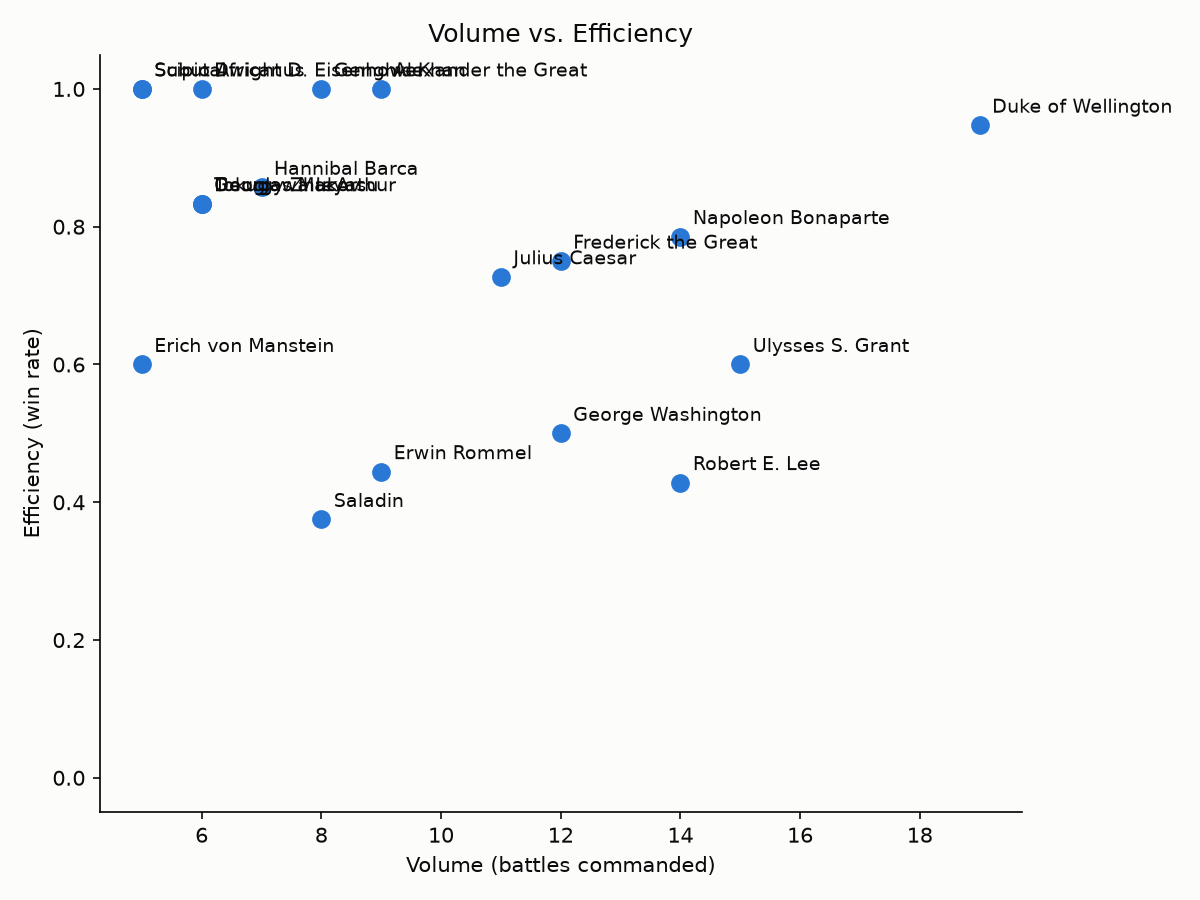
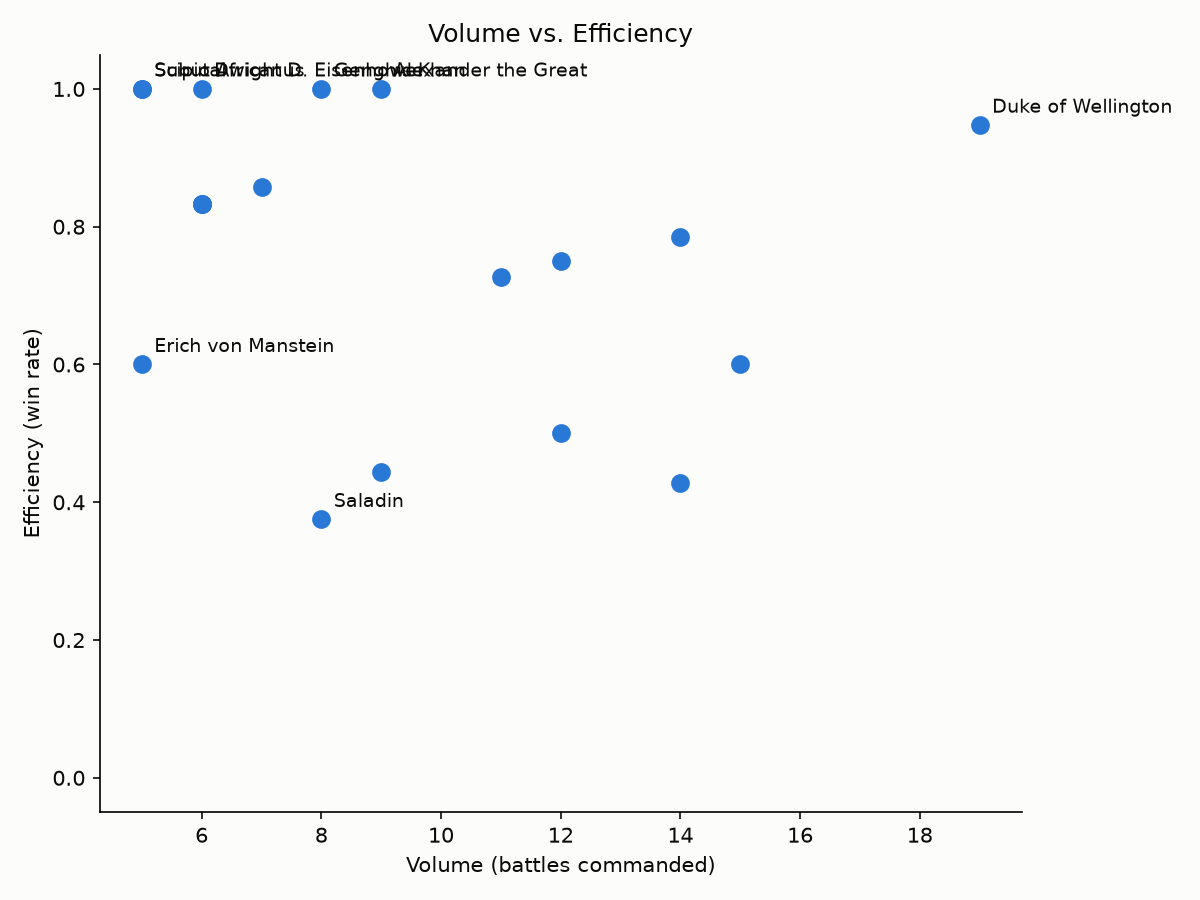
data: regenerate gold-set viz output
The committed composite/category/tactical-strategic CSVs predated B1's
decisive_win_rate redefinition and were stale; also picks up the new
extreme-only point labeling and top-25 table cap.

diff --git a/output/viz/ranking_tables.html b/output/viz/ranking_tables.html
@@ -12,4 +12,4 @@ table.ranking-table th:nth-child(2), table.ranking-table td:nth-child(2) { text-
 table.ranking-table th:nth-child(3):not(:last-child), table.ranking-table td:nth-child(3):not(:last-child) { text-align: left; }
 table.ranking-table thead th { border-bottom: 2px solid #2a78d6; color: #52514e;
   font-weight: 600; }
-</style></head><body><h1>War Analyzer — Ranking Tables</h1><table class="ranking-table"><caption>Composite Power Ranking</caption><thead><tr><th>Rank</th><th>General</th><th>Era</th><th>Composite Score</th><th>OAR</th><th>WAR-Residual (90% CI)</th><th>Decisive Win Rate</th><th>Longevity-Adj. Value</th></tr></thead><tbody><tr><td>1</td><td>Dwight D. Eisenhower</td><td>WWII</td><td>+1.287</td><td>1873</td><td>+0.172 (+0.170 to +0.173)</td><td>100.0%</td><td>1.500</td></tr><tr><td>2</td><td>Alexander the Great</td><td>Ancient</td><td>+0.897</td><td>1878</td><td>+0.175 (+0.170 to +0.180)</td><td>100.0%</td><td>1.000</td></tr><tr><td>3</td><td>Frederick the Great</td><td>Early Modern</td><td>+0.850</td><td>1676</td><td>+0.085 (+0.082 to +0.085)</td><td>100.0%</td><td>0.475</td></tr><tr><td>4</td><td>Ulysses S. Grant</td><td>Industrial</td><td>+0.850</td><td>1676</td><td>-0.143 (-0.148 to -0.137)</td><td>100.0%</td><td>2.100</td></tr><tr><td>5</td><td>Subutai</td><td>Medieval</td><td>+0.774</td><td>1783</td><td>+0.222 (+0.189 to +0.247)</td><td>100.0%</td><td>0.250</td></tr><tr><td>6</td><td>Duke of Wellington</td><td>Napoleonic</td><td>+0.700</td><td>1978</td><td>+0.199 (+0.194 to +0.201)</td><td>88.9%</td><td>1.385</td></tr><tr><td>7</td><td>Scipio Africanus</td><td>Ancient</td><td>+0.450</td><td>1887</td><td>+0.213 (+0.205 to +0.219)</td><td>80.0%</td><td>0.625</td></tr><tr><td>8</td><td>Douglas MacArthur</td><td>WWII</td><td>+0.395</td><td>1704</td><td>+0.124 (+0.112 to +0.135)</td><td>100.0%</td><td>1.000</td></tr><tr><td>9</td><td>Genghis Khan</td><td>Medieval</td><td>+0.283</td><td>1735</td><td>+0.073 (+0.069 to +0.078)</td><td>87.5%</td><td>0.348</td></tr><tr><td>10</td><td>Tokugawa Ieyasu</td><td>Medieval</td><td>+0.145</td><td>1715</td><td>+0.035 (+0.029 to +0.048)</td><td>100.0%</td><td>0.109</td></tr><tr><td>11</td><td>Georgy Zhukov</td><td>WWII</td><td>+0.103</td><td>1695</td><td>+0.091 (+0.084 to +0.096)</td><td>100.0%</td><td>0.714</td></tr><tr><td>12</td><td>Hannibal Barca</td><td>Ancient</td><td>-0.442</td><td>1701</td><td>+0.072 (+0.063 to +0.080)</td><td>100.0%</td><td>0.353</td></tr><tr><td>13</td><td>Erich von Manstein</td><td>WWII</td><td>-0.542</td><td>1558</td><td>-0.059 (-0.081 to -0.025)</td><td>100.0%</td><td>1.000</td></tr><tr><td>14</td><td>Napoleon Bonaparte</td><td>Napoleonic</td><td>-0.700</td><td>1756</td><td>+0.064 (+0.062 to +0.066)</td><td>90.9%</td><td>0.575</td></tr><tr><td>15</td><td>George Washington</td><td>Early Modern</td><td>-0.850</td><td>1565</td><td>-0.114 (-0.126 to -0.104)</td><td>100.0%</td><td>0.250</td></tr><tr><td>16</td><td>Robert E. Lee</td><td>Industrial</td><td>-0.850</td><td>1627</td><td>-0.186 (-0.195 to -0.178)</td><td>100.0%</td><td>1.750</td></tr><tr><td>17</td><td>Julius Caesar</td><td>Ancient</td><td>-0.904</td><td>1673</td><td>-0.104 (-0.109 to -0.095)</td><td>100.0%</td><td>0.571</td></tr><tr><td>18</td><td>Saladin</td><td>Medieval</td><td>-1.202</td><td>1430</td><td>-0.529 (-0.534 to -0.522)</td><td>100.0%</td><td>0.150</td></tr><tr><td>19</td><td>Erwin Rommel</td><td>WWII</td><td>-1.243</td><td>1499</td><td>-0.140 (-0.143 to -0.136)</td><td>75.0%</td><td>1.125</td></tr></tbody></table><h2>Category Rankings</h2><div class="category-grid"><table class="ranking-table"><caption>Win Rate</caption><thead><tr><th>Rank</th><th>General</th><th>Win Rate</th></tr></thead><tbody><tr><td>1</td><td>Genghis Khan</td><td>100.0%</td></tr><tr><td>2</td><td>Subutai</td><td>100.0%</td></tr><tr><td>3</td><td>Dwight D. Eisenhower</td><td>100.0%</td></tr><tr><td>4</td><td>Alexander the Great</td><td>100.0%</td></tr><tr><td>5</td><td>Scipio Africanus</td><td>100.0%</td></tr><tr><td>6</td><td>Duke of Wellington</td><td>94.7%</td></tr><tr><td>7</td><td>Hannibal Barca</td><td>85.7%</td></tr><tr><td>8</td><td>Georgy Zhukov</td><td>83.3%</td></tr><tr><td>9</td><td>Douglas MacArthur</td><td>83.3%</td></tr><tr><td>10</td><td>Tokugawa Ieyasu</td><td>83.3%</td></tr><tr><td>11</td><td>Napoleon Bonaparte</td><td>78.6%</td></tr><tr><td>12</td><td>Frederick the Great</td><td>75.0%</td></tr><tr><td>13</td><td>Julius Caesar</td><td>72.7%</td></tr><tr><td>14</td><td>Erich von Manstein</td><td>60.0%</td></tr><tr><td>15</td><td>Ulysses S. Grant</td><td>60.0%</td></tr><tr><td>16</td><td>George Washington</td><td>50.0%</td></tr><tr><td>17</td><td>Erwin Rommel</td><td>44.4%</td></tr><tr><td>18</td><td>Robert E. Lee</td><td>42.9%</td></tr><tr><td>19</td><td>Saladin</td><td>37.5%</td></tr></tbody></table><table class="ranking-table"><caption>Casualty Efficiency</caption><thead><tr><th>Rank</th><th>General</th><th>Enemy:Own Casualties</th></tr></thead><tbody><tr><td>1</td><td>Subutai</td><td>22.64:1</td></tr><tr><td>2</td><td>Genghis Khan</td><td>21.60:1</td></tr><tr><td>3</td><td>Scipio Africanus</td><td>15.64:1</td></tr><tr><td>4</td><td>Alexander the Great</td><td>7.18:1</td></tr><tr><td>5</td><td>Julius Caesar</td><td>6.81:1</td></tr><tr><td>6</td><td>Erich von Manstein</td><td>4.49:1</td></tr><tr><td>7</td><td>George Washington</td><td>2.87:1</td></tr><tr><td>8</td><td>Tokugawa Ieyasu</td><td>2.69:1</td></tr><tr><td>9</td><td>Dwight D. Eisenhower</td><td>2.38:1</td></tr><tr><td>10</td><td>Hannibal Barca</td><td>2.09:1</td></tr><tr><td>11</td><td>Duke of Wellington</td><td>1.66:1</td></tr><tr><td>12</td><td>Napoleon Bonaparte</td><td>1.35:1</td></tr><tr><td>13</td><td>Ulysses S. Grant</td><td>1.34:1</td></tr><tr><td>14</td><td>Frederick the Great</td><td>1.26:1</td></tr><tr><td>15</td><td>Robert E. Lee</td><td>1.11:1</td></tr><tr><td>16</td><td>Erwin Rommel</td><td>0.84:1</td></tr><tr><td>17</td><td>Saladin</td><td>0.83:1</td></tr><tr><td>18</td><td>Douglas MacArthur</td><td>0.66:1</td></tr><tr><td>19</td><td>Georgy Zhukov</td><td>0.22:1</td></tr></tbody></table><table class="ranking-table"><caption>Opponent-Adjusted Rating</caption><thead><tr><th>Rank</th><th>General</th><th>OAR</th></tr></thead><tbody><tr><td>1</td><td>Duke of Wellington</td><td>1978</td></tr><tr><td>2</td><td>Scipio Africanus</td><td>1887</td></tr><tr><td>3</td><td>Alexander the Great</td><td>1878</td></tr><tr><td>4</td><td>Dwight D. Eisenhower</td><td>1873</td></tr><tr><td>5</td><td>Subutai</td><td>1783</td></tr><tr><td>6</td><td>Napoleon Bonaparte</td><td>1756</td></tr><tr><td>7</td><td>Genghis Khan</td><td>1735</td></tr><tr><td>8</td><td>Tokugawa Ieyasu</td><td>1715</td></tr><tr><td>9</td><td>Douglas MacArthur</td><td>1704</td></tr><tr><td>10</td><td>Hannibal Barca</td><td>1701</td></tr><tr><td>11</td><td>Georgy Zhukov</td><td>1695</td></tr><tr><td>12</td><td>Ulysses S. Grant</td><td>1676</td></tr><tr><td>13</td><td>Frederick the Great</td><td>1676</td></tr><tr><td>14</td><td>Julius Caesar</td><td>1673</td></tr><tr><td>15</td><td>Robert E. Lee</td><td>1627</td></tr><tr><td>16</td><td>George Washington</td><td>1565</td></tr><tr><td>17</td><td>Erich von Manstein</td><td>1558</td></tr><tr><td>18</td><td>Erwin Rommel</td><td>1499</td></tr><tr><td>19</td><td>Saladin</td><td>1430</td></tr></tbody></table><table class="ranking-table"><caption>Clutch Rating</caption><thead><tr><th>Rank</th><th>General</th><th>Clutch Rating</th></tr></thead><tbody><tr><td>1</td><td>Genghis Khan</td><td>1.000 (1.000 to 1.000)</td></tr><tr><td>2</td><td>Hannibal Barca</td><td>1.000 (0.857 to 1.000)</td></tr><tr><td>3</td><td>Subutai</td><td>1.000 (1.000 to 1.000)</td></tr><tr><td>4</td><td>Dwight D. Eisenhower</td><td>1.000 (1.000 to 1.000)</td></tr><tr><td>5</td><td>Alexander the Great</td><td>1.000 (1.000 to 1.000)</td></tr><tr><td>6</td><td>Scipio Africanus</td><td>1.000 (1.000 to 1.000)</td></tr><tr><td>7</td><td>Georgy Zhukov</td><td>1.000 (1.000 to 1.000)</td></tr><tr><td>8</td><td>Duke of Wellington</td><td>0.889 (0.889 to 0.909)</td></tr><tr><td>9</td><td>Frederick the Great</td><td>0.750 (0.722 to 0.773)</td></tr><tr><td>10</td><td>Napoleon Bonaparte</td><td>0.750 (0.722 to 0.800)</td></tr><tr><td>11</td><td>Julius Caesar</td><td>0.750 (0.625 to 0.778)</td></tr><tr><td>12</td><td>Douglas MacArthur</td><td>0.667 (0.667 to 0.667)</td></tr><tr><td>13</td><td>Tokugawa Ieyasu</td><td>0.667 (0.667 to 0.750)</td></tr><tr><td>14</td><td>George Washington</td><td>0.550 (0.550 to 0.550)</td></tr><tr><td>15</td><td>Erwin Rommel</td><td>0.500 (0.500 to 0.500)</td></tr><tr><td>16</td><td>Erich von Manstein</td><td>0.500 (0.333 to 0.500)</td></tr><tr><td>17</td><td>Robert E. Lee</td><td>0.500 (0.500 to 0.545)</td></tr><tr><td>18</td><td>Ulysses S. Grant</td><td>0.500 (0.500 to 0.500)</td></tr><tr><td>19</td><td>Saladin</td><td>0.000 (0.000 to 0.667)</td></tr></tbody></table><table class="ranking-table"><caption>Squander Index</caption><thead><tr><th>Rank</th><th>General</th><th>Squander Index</th></tr></thead><tbody><tr><td>1</td><td>Genghis Khan</td><td>0.0%</td></tr><tr><td>2</td><td>Erich von Manstein</td><td>0.0%</td></tr><tr><td>3</td><td>Subutai</td><td>0.0%</td></tr><tr><td>4</td><td>Dwight D. Eisenhower</td><td>0.0%</td></tr><tr><td>5</td><td>Saladin</td><td>0.0%</td></tr><tr><td>6</td><td>Georgy Zhukov</td><td>0.0%</td></tr><tr><td>7</td><td>George Washington</td><td>0.0%</td></tr><tr><td>8</td><td>Julius Caesar</td><td>0.0%</td></tr><tr><td>9</td><td>Ulysses S. Grant</td><td>0.0%</td></tr><tr><td>10</td><td>Robert E. Lee</td><td>16.7%</td></tr><tr><td>11</td><td>Scipio Africanus</td><td>20.0%</td></tr><tr><td>12</td><td>Douglas MacArthur</td><td>20.0%</td></tr><tr><td>13</td><td>Alexander the Great</td><td>22.2%</td></tr><tr><td>14</td><td>Napoleon Bonaparte</td><td>27.3%</td></tr><tr><td>15</td><td>Hannibal Barca</td><td>33.3%</td></tr><tr><td>16</td><td>Duke of Wellington</td><td>38.9%</td></tr><tr><td>17</td><td>Tokugawa Ieyasu</td><td>40.0%</td></tr><tr><td>18</td><td>Frederick the Great</td><td>44.4%</td></tr><tr><td>19</td><td>Erwin Rommel</td><td>50.0%</td></tr></tbody></table><table class="ranking-table"><caption>Longevity-Adjusted Value</caption><thead><tr><th>Rank</th><th>General</th><th>Longevity-Adj. Value</th></tr></thead><tbody><tr><td>1</td><td>Ulysses S. Grant</td><td>2.100</td></tr><tr><td>2</td><td>Robert E. Lee</td><td>1.750</td></tr><tr><td>3</td><td>Dwight D. Eisenhower</td><td>1.500</td></tr><tr><td>4</td><td>Duke of Wellington</td><td>1.385</td></tr><tr><td>5</td><td>Erwin Rommel</td><td>1.125</td></tr><tr><td>6</td><td>Erich von Manstein</td><td>1.000</td></tr><tr><td>7</td><td>Alexander the Great</td><td>1.000</td></tr><tr><td>8</td><td>Douglas MacArthur</td><td>1.000</td></tr><tr><td>9</td><td>Georgy Zhukov</td><td>0.714</td></tr><tr><td>10</td><td>Scipio Africanus</td><td>0.625</td></tr><tr><td>11</td><td>Napoleon Bonaparte</td><td>0.575</td></tr><tr><td>12</td><td>Julius Caesar</td><td>0.571</td></tr><tr><td>13</td><td>Frederick the Great</td><td>0.475</td></tr><tr><td>14</td><td>Hannibal Barca</td><td>0.353</td></tr><tr><td>15</td><td>Genghis Khan</td><td>0.348</td></tr><tr><td>16</td><td>Subutai</td><td>0.250</td></tr><tr><td>17</td><td>George Washington</td><td>0.250</td></tr><tr><td>18</td><td>Saladin</td><td>0.150</td></tr><tr><td>19</td><td>Tokugawa Ieyasu</td><td>0.109</td></tr></tbody></table></div></body></html>
+</style></head><body><h1>War Analyzer — Ranking Tables</h1><table class="ranking-table"><caption>Composite Power Ranking</caption><thead><tr><th>Rank</th><th>General</th><th>Era</th><th>Composite Score</th><th>OAR</th><th>WAR-Residual (90% CI)</th><th>Decisive Win Rate</th><th>Longevity-Adj. Value</th></tr></thead><tbody><tr><td>1</td><td>Dwight D. Eisenhower</td><td>WWII</td><td>+1.319</td><td>1873</td><td>+0.172 (+0.172 to +0.172)</td><td>100.0%</td><td>1.500</td></tr><tr><td>2</td><td>Ulysses S. Grant</td><td>Industrial</td><td>+1.000</td><td>1676</td><td>-0.143 (-0.143 to -0.143)</td><td>100.0%</td><td>2.100</td></tr><tr><td>3</td><td>Subutai</td><td>Medieval</td><td>+0.774</td><td>1783</td><td>+0.222 (+0.222 to +0.222)</td><td>100.0%</td><td>0.250</td></tr><tr><td>4</td><td>Alexander the Great</td><td>Ancient</td><td>+0.769</td><td>1878</td><td>+0.175 (+0.175 to +0.175)</td><td>77.8%</td><td>1.000</td></tr><tr><td>5</td><td>Duke of Wellington</td><td>Napoleonic</td><td>+0.700</td><td>1978</td><td>+0.199 (+0.199 to +0.199)</td><td>61.1%</td><td>1.385</td></tr><tr><td>6</td><td>Frederick the Great</td><td>Early Modern</td><td>+0.700</td><td>1676</td><td>+0.085 (+0.085 to +0.085)</td><td>55.6%</td><td>0.475</td></tr><tr><td>7</td><td>Scipio Africanus</td><td>Ancient</td><td>+0.696</td><td>1887</td><td>+0.213 (+0.213 to +0.213)</td><td>80.0%</td><td>0.625</td></tr><tr><td>8</td><td>Genghis Khan</td><td>Medieval</td><td>+0.630</td><td>1735</td><td>+0.073 (+0.073 to +0.073)</td><td>100.0%</td><td>0.348</td></tr><tr><td>9</td><td>Douglas MacArthur</td><td>WWII</td><td>+0.275</td><td>1704</td><td>+0.124 (+0.124 to +0.124)</td><td>80.0%</td><td>1.000</td></tr><tr><td>10</td><td>Georgy Zhukov</td><td>WWII</td><td>+0.135</td><td>1695</td><td>+0.091 (+0.091 to +0.091)</td><td>100.0%</td><td>0.714</td></tr><tr><td>11</td><td>Tokugawa Ieyasu</td><td>Medieval</td><td>-0.202</td><td>1715</td><td>+0.035 (+0.035 to +0.035)</td><td>60.0%</td><td>0.109</td></tr><tr><td>12</td><td>Erich von Manstein</td><td>WWII</td><td>-0.510</td><td>1558</td><td>-0.059 (-0.059 to -0.059)</td><td>100.0%</td><td>1.000</td></tr><tr><td>13</td><td>George Washington</td><td>Early Modern</td><td>-0.700</td><td>1565</td><td>-0.114 (-0.114 to -0.114)</td><td>100.0%</td><td>0.250</td></tr><tr><td>14</td><td>Napoleon Bonaparte</td><td>Napoleonic</td><td>-0.700</td><td>1756</td><td>+0.064 (+0.064 to +0.064)</td><td>72.7%</td><td>0.575</td></tr><tr><td>15</td><td>Hannibal Barca</td><td>Ancient</td><td>-0.709</td><td>1701</td><td>+0.072 (+0.072 to +0.072)</td><td>66.7%</td><td>0.353</td></tr><tr><td>16</td><td>Julius Caesar</td><td>Ancient</td><td>-0.755</td><td>1673</td><td>-0.104 (-0.104 to -0.104)</td><td>100.0%</td><td>0.571</td></tr><tr><td>17</td><td>Robert E. Lee</td><td>Industrial</td><td>-1.000</td><td>1627</td><td>-0.186 (-0.186 to -0.186)</td><td>83.3%</td><td>1.750</td></tr><tr><td>18</td><td>Saladin</td><td>Medieval</td><td>-1.202</td><td>1430</td><td>-0.529 (-0.529 to -0.529)</td><td>100.0%</td><td>0.150</td></tr><tr><td>19</td><td>Erwin Rommel</td><td>WWII</td><td>-1.218</td><td>1499</td><td>-0.140 (-0.140 to -0.140)</td><td>50.0%</td><td>1.125</td></tr></tbody></table><h2>Category Rankings</h2><div class="category-grid"><table class="ranking-table"><caption>Win Rate</caption><thead><tr><th>Rank</th><th>General</th><th>Win Rate</th></tr></thead><tbody><tr><td>1</td><td>Scipio Africanus</td><td>100.0%</td></tr><tr><td>2</td><td>Subutai</td><td>100.0%</td></tr><tr><td>3</td><td>Dwight D. Eisenhower</td><td>100.0%</td></tr><tr><td>4</td><td>Genghis Khan</td><td>100.0%</td></tr><tr><td>5</td><td>Alexander the Great</td><td>100.0%</td></tr><tr><td>6</td><td>Duke of Wellington</td><td>94.7%</td></tr><tr><td>7</td><td>Hannibal Barca</td><td>85.7%</td></tr><tr><td>8</td><td>Georgy Zhukov</td><td>83.3%</td></tr><tr><td>9</td><td>Tokugawa Ieyasu</td><td>83.3%</td></tr><tr><td>10</td><td>Douglas MacArthur</td><td>83.3%</td></tr><tr><td>11</td><td>Napoleon Bonaparte</td><td>78.6%</td></tr><tr><td>12</td><td>Frederick the Great</td><td>75.0%</td></tr><tr><td>13</td><td>Julius Caesar</td><td>72.7%</td></tr><tr><td>14</td><td>Erich von Manstein</td><td>60.0%</td></tr><tr><td>15</td><td>Ulysses S. Grant</td><td>60.0%</td></tr><tr><td>16</td><td>George Washington</td><td>50.0%</td></tr><tr><td>17</td><td>Erwin Rommel</td><td>44.4%</td></tr><tr><td>18</td><td>Robert E. Lee</td><td>42.9%</td></tr><tr><td>19</td><td>Saladin</td><td>37.5%</td></tr></tbody></table><table class="ranking-table"><caption>Casualty Efficiency</caption><thead><tr><th>Rank</th><th>General</th><th>Enemy:Own Casualties</th></tr></thead><tbody><tr><td>1</td><td>Subutai</td><td>22.64:1</td></tr><tr><td>2</td><td>Genghis Khan</td><td>21.60:1</td></tr><tr><td>3</td><td>Scipio Africanus</td><td>15.64:1</td></tr><tr><td>4</td><td>Alexander the Great</td><td>7.18:1</td></tr><tr><td>5</td><td>Julius Caesar</td><td>6.81:1</td></tr><tr><td>6</td><td>Erich von Manstein</td><td>4.49:1</td></tr><tr><td>7</td><td>George Washington</td><td>2.87:1</td></tr><tr><td>8</td><td>Tokugawa Ieyasu</td><td>2.69:1</td></tr><tr><td>9</td><td>Dwight D. Eisenhower</td><td>2.38:1</td></tr><tr><td>10</td><td>Hannibal Barca</td><td>2.09:1</td></tr><tr><td>11</td><td>Duke of Wellington</td><td>1.66:1</td></tr><tr><td>12</td><td>Napoleon Bonaparte</td><td>1.35:1</td></tr><tr><td>13</td><td>Ulysses S. Grant</td><td>1.34:1</td></tr><tr><td>14</td><td>Frederick the Great</td><td>1.26:1</td></tr><tr><td>15</td><td>Robert E. Lee</td><td>1.11:1</td></tr><tr><td>16</td><td>Erwin Rommel</td><td>0.84:1</td></tr><tr><td>17</td><td>Saladin</td><td>0.83:1</td></tr><tr><td>18</td><td>Douglas MacArthur</td><td>0.66:1</td></tr><tr><td>19</td><td>Georgy Zhukov</td><td>0.22:1</td></tr></tbody></table><table class="ranking-table"><caption>Opponent-Adjusted Rating</caption><thead><tr><th>Rank</th><th>General</th><th>OAR</th></tr></thead><tbody><tr><td>1</td><td>Duke of Wellington</td><td>1978</td></tr><tr><td>2</td><td>Scipio Africanus</td><td>1887</td></tr><tr><td>3</td><td>Alexander the Great</td><td>1878</td></tr><tr><td>4</td><td>Dwight D. Eisenhower</td><td>1873</td></tr><tr><td>5</td><td>Subutai</td><td>1783</td></tr><tr><td>6</td><td>Napoleon Bonaparte</td><td>1756</td></tr><tr><td>7</td><td>Genghis Khan</td><td>1735</td></tr><tr><td>8</td><td>Tokugawa Ieyasu</td><td>1715</td></tr><tr><td>9</td><td>Douglas MacArthur</td><td>1704</td></tr><tr><td>10</td><td>Hannibal Barca</td><td>1701</td></tr><tr><td>11</td><td>Georgy Zhukov</td><td>1695</td></tr><tr><td>12</td><td>Ulysses S. Grant</td><td>1676</td></tr><tr><td>13</td><td>Frederick the Great</td><td>1676</td></tr><tr><td>14</td><td>Julius Caesar</td><td>1673</td></tr><tr><td>15</td><td>Robert E. Lee</td><td>1627</td></tr><tr><td>16</td><td>George Washington</td><td>1565</td></tr><tr><td>17</td><td>Erich von Manstein</td><td>1558</td></tr><tr><td>18</td><td>Erwin Rommel</td><td>1499</td></tr><tr><td>19</td><td>Saladin</td><td>1430</td></tr></tbody></table><table class="ranking-table"><caption>Clutch Rating</caption><thead><tr><th>Rank</th><th>General</th><th>Clutch Rating</th></tr></thead><tbody><tr><td>1</td><td>Scipio Africanus</td><td>1.000 (1.000 to 1.000)</td></tr><tr><td>2</td><td>Subutai</td><td>1.000 (1.000 to 1.000)</td></tr><tr><td>3</td><td>Georgy Zhukov</td><td>1.000 (1.000 to 1.000)</td></tr><tr><td>4</td><td>Dwight D. Eisenhower</td><td>1.000 (1.000 to 1.000)</td></tr><tr><td>5</td><td>Genghis Khan</td><td>1.000 (1.000 to 1.000)</td></tr><tr><td>6</td><td>Alexander the Great</td><td>1.000 (1.000 to 1.000)</td></tr><tr><td>7</td><td>Hannibal Barca</td><td>1.000 (1.000 to 1.000)</td></tr><tr><td>8</td><td>Duke of Wellington</td><td>0.889 (0.889 to 0.889)</td></tr><tr><td>9</td><td>Julius Caesar</td><td>0.750 (0.750 to 0.750)</td></tr><tr><td>10</td><td>Frederick the Great</td><td>0.750 (0.750 to 0.750)</td></tr><tr><td>11</td><td>Napoleon Bonaparte</td><td>0.750 (0.750 to 0.750)</td></tr><tr><td>12</td><td>Tokugawa Ieyasu</td><td>0.667 (0.667 to 0.667)</td></tr><tr><td>13</td><td>Douglas MacArthur</td><td>0.667 (0.667 to 0.667)</td></tr><tr><td>14</td><td>George Washington</td><td>0.550 (0.550 to 0.550)</td></tr><tr><td>15</td><td>Erwin Rommel</td><td>0.500 (0.500 to 0.500)</td></tr><tr><td>16</td><td>Robert E. Lee</td><td>0.500 (0.500 to 0.500)</td></tr><tr><td>17</td><td>Erich von Manstein</td><td>0.500 (0.500 to 0.500)</td></tr><tr><td>18</td><td>Ulysses S. Grant</td><td>0.500 (0.500 to 0.500)</td></tr><tr><td>19</td><td>Saladin</td><td>0.000 (0.000 to 0.000)</td></tr></tbody></table><table class="ranking-table"><caption>Squander Index</caption><thead><tr><th>Rank</th><th>General</th><th>Squander Index</th></tr></thead><tbody><tr><td>1</td><td>George Washington</td><td>0.0%</td></tr><tr><td>2</td><td>Saladin</td><td>0.0%</td></tr><tr><td>3</td><td>Subutai</td><td>0.0%</td></tr><tr><td>4</td><td>Georgy Zhukov</td><td>0.0%</td></tr><tr><td>5</td><td>Dwight D. Eisenhower</td><td>0.0%</td></tr><tr><td>6</td><td>Genghis Khan</td><td>0.0%</td></tr><tr><td>7</td><td>Julius Caesar</td><td>0.0%</td></tr><tr><td>8</td><td>Erich von Manstein</td><td>0.0%</td></tr><tr><td>9</td><td>Ulysses S. Grant</td><td>0.0%</td></tr><tr><td>10</td><td>Robert E. Lee</td><td>16.7%</td></tr><tr><td>11</td><td>Scipio Africanus</td><td>20.0%</td></tr><tr><td>12</td><td>Douglas MacArthur</td><td>20.0%</td></tr><tr><td>13</td><td>Alexander the Great</td><td>22.2%</td></tr><tr><td>14</td><td>Napoleon Bonaparte</td><td>27.3%</td></tr><tr><td>15</td><td>Hannibal Barca</td><td>33.3%</td></tr><tr><td>16</td><td>Duke of Wellington</td><td>38.9%</td></tr><tr><td>17</td><td>Tokugawa Ieyasu</td><td>40.0%</td></tr><tr><td>18</td><td>Frederick the Great</td><td>44.4%</td></tr><tr><td>19</td><td>Erwin Rommel</td><td>50.0%</td></tr></tbody></table><table class="ranking-table"><caption>Longevity-Adjusted Value</caption><thead><tr><th>Rank</th><th>General</th><th>Longevity-Adj. Value</th></tr></thead><tbody><tr><td>1</td><td>Ulysses S. Grant</td><td>2.100</td></tr><tr><td>2</td><td>Robert E. Lee</td><td>1.750</td></tr><tr><td>3</td><td>Dwight D. Eisenhower</td><td>1.500</td></tr><tr><td>4</td><td>Duke of Wellington</td><td>1.385</td></tr><tr><td>5</td><td>Erwin Rommel</td><td>1.125</td></tr><tr><td>6</td><td>Erich von Manstein</td><td>1.000</td></tr><tr><td>7</td><td>Alexander the Great</td><td>1.000</td></tr><tr><td>8</td><td>Douglas MacArthur</td><td>1.000</td></tr><tr><td>9</td><td>Georgy Zhukov</td><td>0.714</td></tr><tr><td>10</td><td>Scipio Africanus</td><td>0.625</td></tr><tr><td>11</td><td>Napoleon Bonaparte</td><td>0.575</td></tr><tr><td>12</td><td>Julius Caesar</td><td>0.571</td></tr><tr><td>13</td><td>Frederick the Great</td><td>0.475</td></tr><tr><td>14</td><td>Hannibal Barca</td><td>0.353</td></tr><tr><td>15</td><td>Genghis Khan</td><td>0.348</td></tr><tr><td>16</td><td>George Washington</td><td>0.250</td></tr><tr><td>17</td><td>Subutai</td><td>0.250</td></tr><tr><td>18</td><td>Saladin</td><td>0.150</td></tr><tr><td>19</td><td>Tokugawa Ieyasu</td><td>0.109</td></tr></tbody></table></div></body></html>
